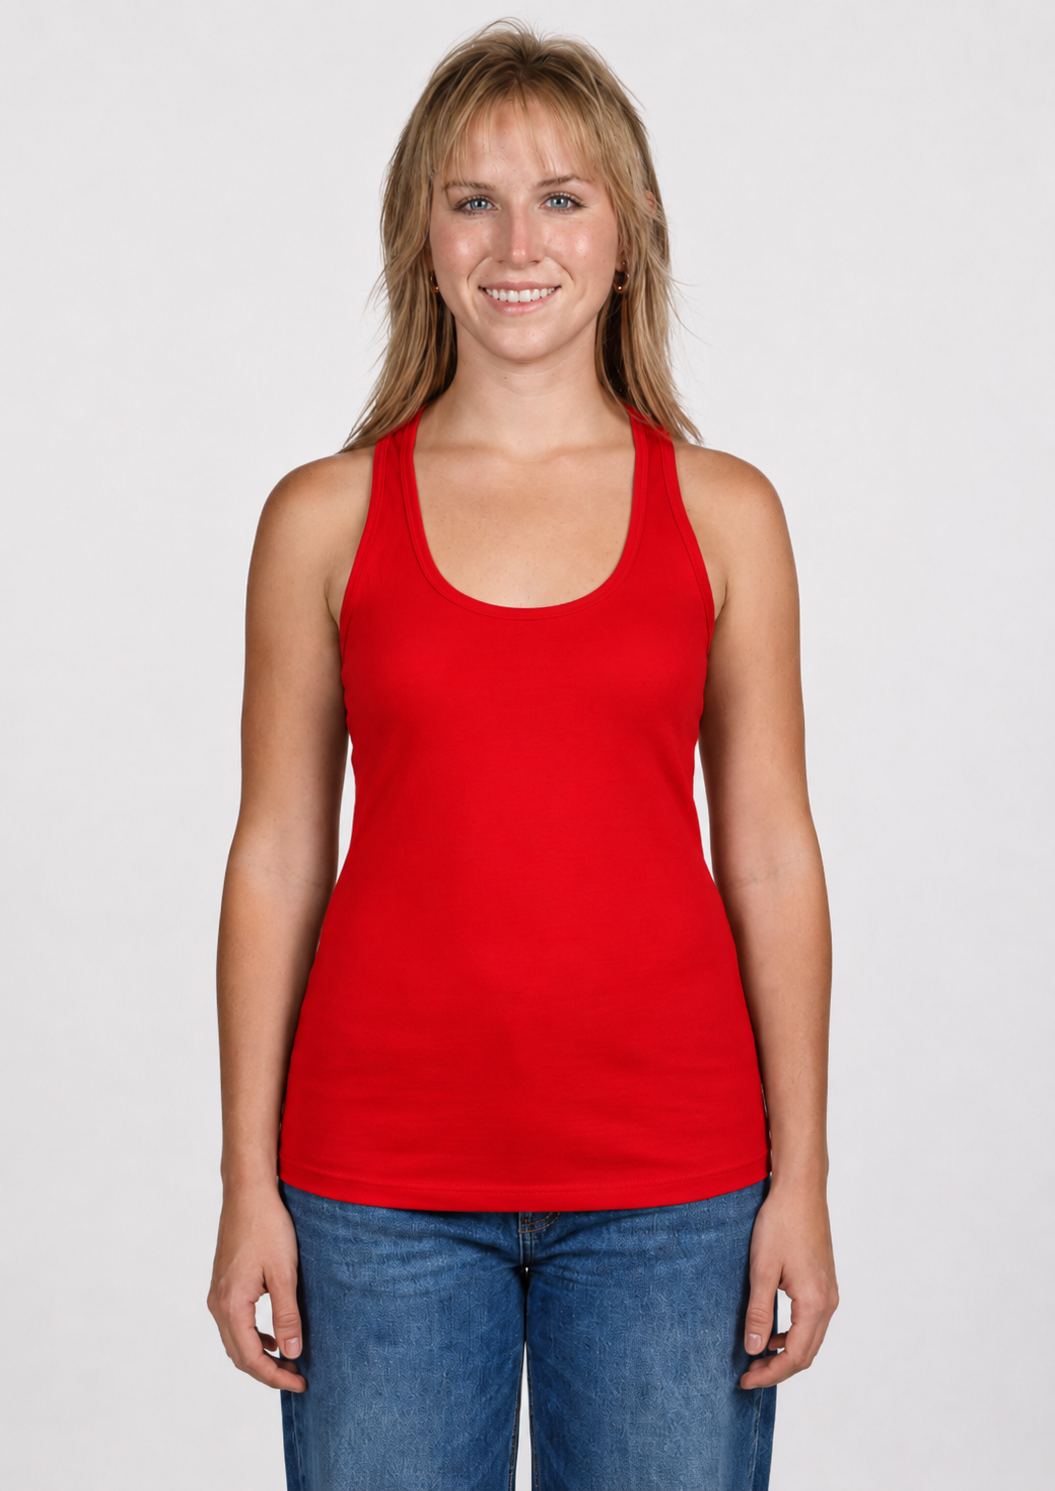
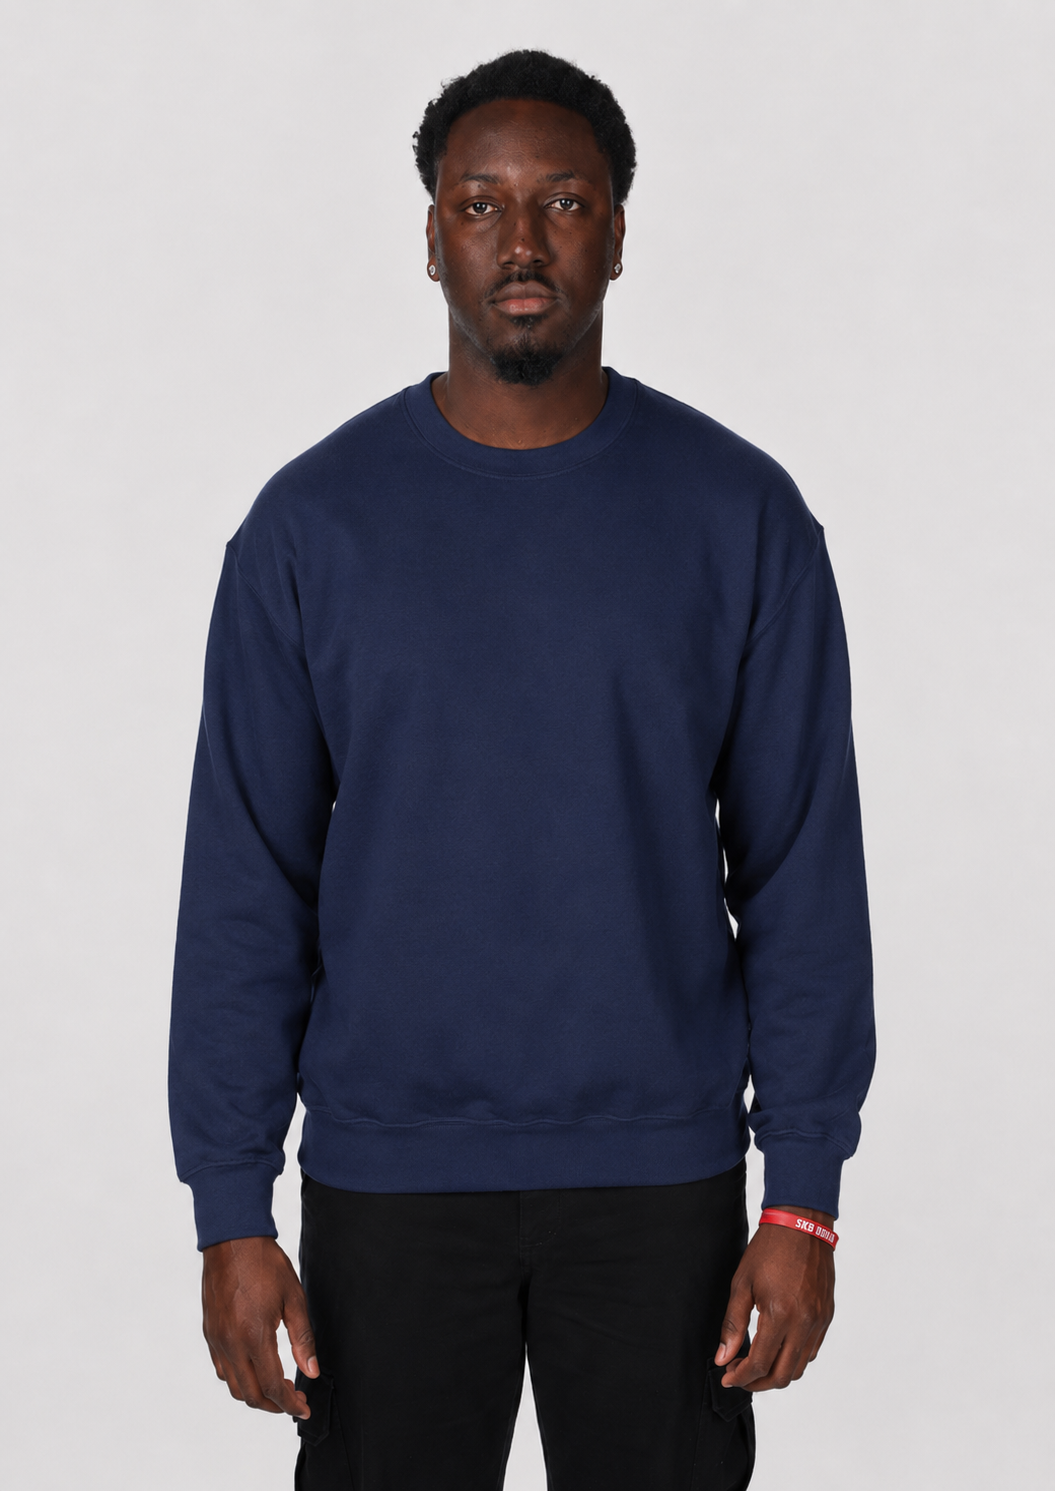
changes made

diff --git a/index.html b/index.html
@@ -836,11 +836,11 @@ Thank you for supporting my small business and understanding the handmade nature
             'thread-crewneck': {
                 sizes: ['Small', 'Medium', 'Large', 'XL', '3X', '4X'],
                 colors: {
-                    'Black': 'BlackCrewNeck.png', 'White': 'WhiteCrewNeck.png', 'Gray': 'AthleticGreyCrewNeck.png', 
-                    'LightPink': 'LightPinkCrewNeck.png', 'Sand': 'SandCrewNeck.png', 'Red': 'RedCrewNeck.png', 
-                    'RoyalBlue': 'RoyalBlueCrewNeck.png', 'ForestGreen': 'ForestGreenCrewNeck.JPEG', 
-                    'KellyGreen': 'KellyGreen.png', 'NavyBlue': 'NavyBlueShirt.png', 'Violet': '', 
-                    'HotPink': 'HotPink.png', 'Yellow': '', 'Purple': 'PurpleCrewNeck.png', 'SageGreen': '', 'Orange': 'OrangeCrewNeck.png'
+                 'Black': 'BlackCrewNeck.png', 'White': 'WhiteCrewNeck.png', 'Gray': 'AthleticGreyCrewNeck.png', 
+                 'LightPink': 'LightPinkCrewNeck.png', 'Sand': 'SandCrewNeck.png', 'Red': 'RedCrewNeck.png', 
+                 'RoyalBlue': 'RoyalBlueCrewNeck.png', 'ForestGreen': 'ForestGreenCrewNeck.JPEG', 
+                 'KellyGreen': 'KellyGreen.png', 'NavyBlue': 'NavyBlueCrewNeck.png', 'Violet': 'VioletCrewNeck.png', 
+                 'HotPink': 'HotPink.png', 'Yellow': 'YellowCrewNeck.png', 'Purple': 'PurpleCrewNeck.png', 'SageGreen': 'SageGreenCrewNeck.png', 'Orange': 'OrangeCrewNeck.png'
                 }
             },
             'thread-tanktop': {